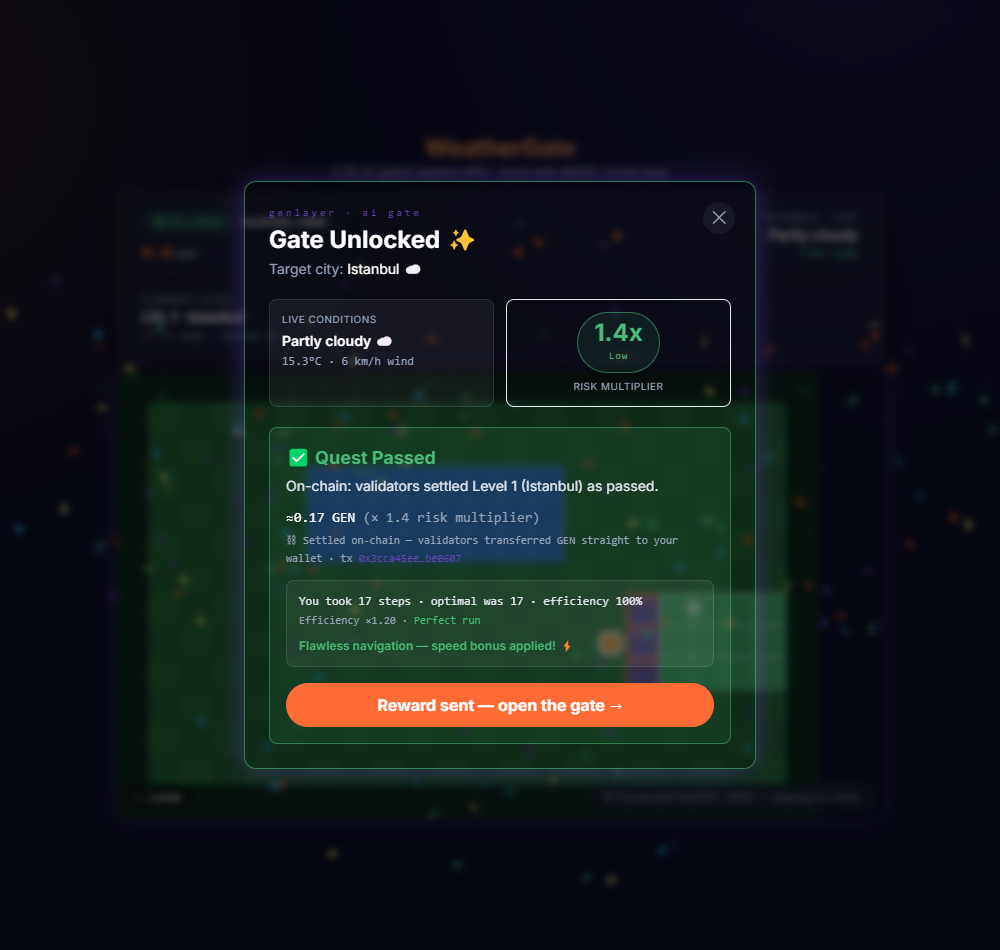
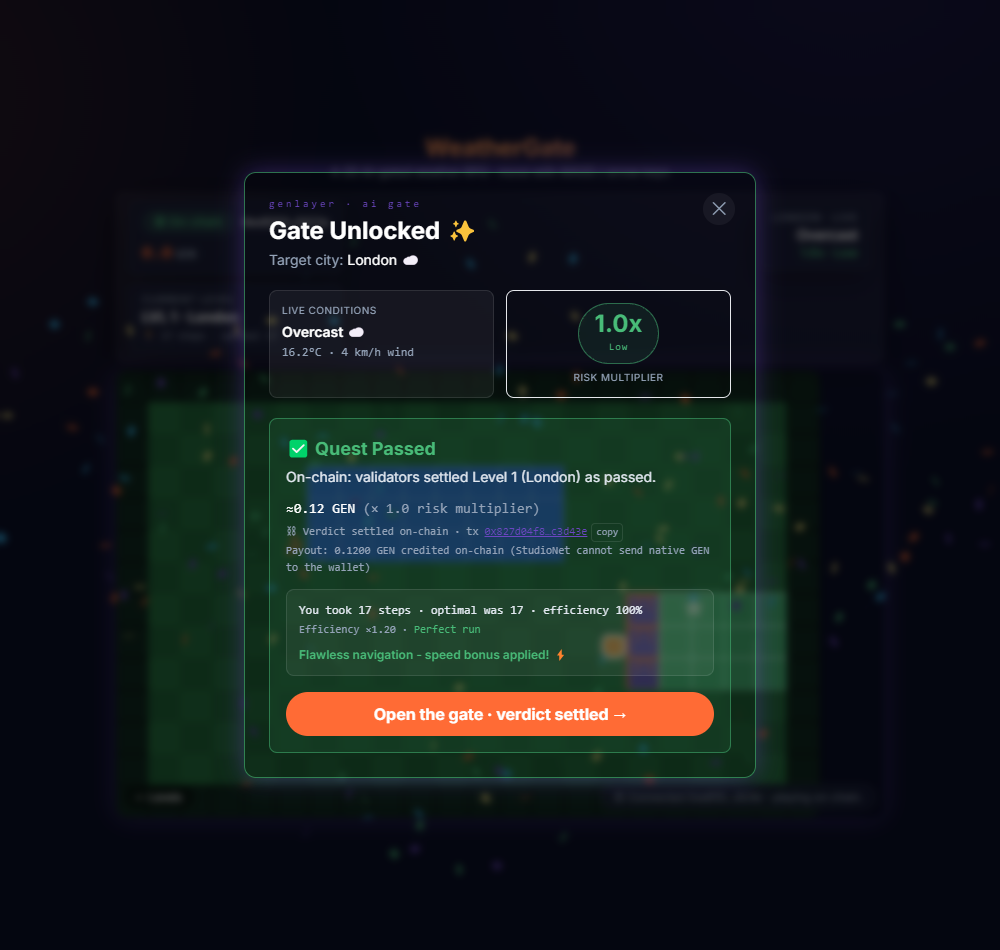
P5 live-UI on-chain proof + P4 preview-match evidence
Playwright run against the live site with a throwaway in-test key: settlement tx 0x827d04f8 FINALIZED / MAJORITY_AGREE / 1 consensus round, get_credit +0.12 GEN for the signer, full-66 explorer link, separate payout line, no reward-sent wording, gate unlocked, address chip matches, 0 console errors.

Fixed pwtest selectors: address chip is in the in-game HUD, Gate Unlocked text is read from the verdict modal before it closes.

Added CI watch, live-bundle check, and RPC get_credit cross-check scripts. Screenshots and JSON reports under docs/.

Changed region(s): [[0.248, 0.3053, 0.744, 0.8242], [0.248, 0.1832, 0.744, 0.3968], [0.775, 0.2442, 0.806, 0.2747]]

diff --git a/scripts/wq_p5_verify.py b/scripts/wq_p5_verify.py
@@ -1,0 +1,92 @@
+"""P5 independent verification of the live-UI on-chain settlement.
+
+Reads docs/ui-onchain-report.json (written by tools/pwtest/onchain_write.mjs),
+takes the settlement tx hash the UI submitted, and independently (via the
+StudioNet RPC, not the browser) confirms:
+  * lifecycle reached FINALIZED (or at least ACCEPTED) within the 5-min cap,
+  * result_name == MAJORITY_AGREE (NOT Validators Timeout / NO_MAJORITY),
+  * num_of_rounds == 1 (one consensus round, no rotation),
+  * the validator vote set,
+  * the throwaway signer's on-chain credit equals the expected L1 payout.
+
+Polls every 20-25s, one printed line per poll, stops after 3 no-change polls.
+Loads nothing secret; reads only public tx data + this project's own key is not
+needed for these reads. NEVER prints any private key.
+"""
+import json
+import os
+import sys
+import time
+
+from dotenv import load_dotenv
+
+ROOT = os.path.abspath(os.path.join(os.path.dirname(__file__), ".."))
+load_dotenv(os.path.join(ROOT, ".env"))
+from genlayer_py import create_client, studionet  # noqa: E402
+from eth_account import Account  # noqa: E402
+
+ADDR = "0x2d764187A908d1677510c5E7FE69e8e7C1810299"
+BAD = {"NO_MAJORITY", "MAJORITY_DISAGREE", "TIMEOUT", "VALIDATORS_TIMEOUT",
+       "LEADER_TIMEOUT", "UNDETERMINED"}
+TERMINAL = {"FINALIZED", "UNDETERMINED", "VALIDATORS_TIMEOUT", "LEADER_TIMEOUT", "CANCELED"}
+
+report = json.load(open(os.path.join(ROOT, "docs", "ui-onchain-report.json"), encoding="utf-8"))
+sub = report.get("submitted") or []
+signer = report.get("signer_address")
+if not sub:
+    print("no submitted tx in report; aborting"); sys.exit(1)
+tx_id = sub[0]["hash"]
+print("settlement tx:", tx_id)
+print("signer:", signer)
+
+client = create_client(chain=studionet, account=Account.create())
+
+prev = None
+same = 0
+start = time.time()
+raw = None
+while time.time() - start < 300:
+    try:
+        raw = client.get_transaction(tx_id)
+    except Exception as e:
+        print("  poll err", type(e).__name__, str(e)[:60]); time.sleep(20); continue
+    sn = raw.get("status_name")
+    rn = raw.get("result_name")
+    print("[%3ds] status=%s result=%s rounds=%s" % (
+        int(time.time() - start), sn, rn, raw.get("num_of_rounds")))
+    if sn in TERMINAL:
+        break
+    if sn == prev:
+        same += 1
+        if same >= 3:
+            print("no change x3, stopping"); break
+    else:
+        same = 0
+    prev = sn
+    time.sleep(22)
+
+cd = (raw or {}).get("consensus_data") or {}
+votes = cd.get("votes") or {}
+vote_vals = list(votes.values())
+result = {
+    "tx_hash": tx_id,
+    "status_name": (raw or {}).get("status_name"),
+    "result_name": (raw or {}).get("result_name"),
+    "num_of_rounds": (raw or {}).get("num_of_rounds"),
+    "votes": vote_vals,
+    "consensus_clean": (raw or {}).get("result_name") not in BAD and bool(vote_vals),
+}
+print(json.dumps(result, indent=2))
+
+# read the signer's on-chain credit on the contract
+credit = None
+try:
+    credit = client.read_contract(ADDR, "get_credit", [signer])
+    print("get_credit(signer):", credit)
+except Exception as e:
+    print("get_credit read failed:", type(e).__name__, str(e)[:80])
+
+out = {"settlement": result, "credit": credit}
+with open(os.path.join(ROOT, "docs", "p5_ui_onchain_verify.json"), "w", encoding="utf-8") as f:
+    json.dump(out, f, indent=2, default=str)
+print("wrote docs/p5_ui_onchain_verify.json")

diff --git a/scripts/wq_live_bundle.py b/scripts/wq_live_bundle.py
@@ -1,0 +1,67 @@
+"""Verify the LIVE GitHub Pages bundle bakes the final contract address.
+
+base: "./" means index.html references ./assets/*.js, and the contract address
+lives in a dynamically-imported (code-split) chunk, not the entry. So this
+crawls every asset js referenced by index.html OR by any fetched js (bounded),
+greps each for the NEW and OLD addresses, and reports per-asset hits. Read-only
+GETs of public static files. No secrets.
+"""
+import re
+import urllib.request
+
+SITE = "https://hoveiser.github.io/weatherquest/"
+NEW = "0x2d764187A908d1677510c5E7FE69e8e7C1810299"
+OLD = "0x8fc4bc489C30666D6cF846DB63aAEaDfD8475A72"
+UA = {"User-Agent": "wq-live-bundle-check"}
+
+
+def get(url):
+    try:
+        with urllib.request.urlopen(urllib.request.Request(url, headers=UA), timeout=30) as r:
+            return r.status, r.read().decode("utf-8", "ignore")
+    except Exception as e:
+        return None, "ERR " + type(e).__name__ + " " + str(e)[:80]
+
+
+def resolve(asset):
+    a = asset.lstrip("./").lstrip("/")
+    return SITE + a
+
+
+status, html = get(SITE + "index.html")
+print("index.html status:", status)
+js = set(re.findall(r"assets/[A-Za-z0-9_-]+\.js", html))
+print("assets referenced by index:", sorted(js))
+
+fetched = set()
+new_hits = []
+old_hits = []
+queue = list(js)
+guard = 0
+while queue and guard < 30:
+    guard += 1
+    name = queue.pop(0)
+    if name in fetched:
+        continue
+    fetched.add(name)
+    url = resolve(name)
+    st, body = get(url)
+    if st != 200:
+        print("  FETCH FAIL", url, body)
+        continue
+    has_new = NEW in body or NEW.lower() in body.lower()
+    has_old = OLD in body or OLD.lower() in body.lower()
+    print("  %-40s status=%s bytes=%6d NEW=%s OLD=%s" % (name, st, len(body), has_new, has_old))
+    if has_new:
+        new_hits.append(name)
+    if has_old:
+        old_hits.append(name)
+    # follow further chunk references inside this asset
+    for deeper in re.findall(r"assets/[A-Za-z0-9_-]+\.js", body):
+        if deeper not in fetched:
+            queue.append(deeper)
+
+print("assets crawled:", len(fetched))
+print("contain NEW:", new_hits or "NONE")
+print("contain OLD:", old_hits or "NONE")
+print("VERDICT:", "PASS" if new_hits and not old_hits else "CHECK")

diff --git a/scripts/wq_ci_watch.py b/scripts/wq_ci_watch.py
@@ -1,0 +1,69 @@
+"""Poll GitHub Actions run status for the pushed commit until each workflow
+finishes. Reads GITHUB_TOKEN from this project's own .env and never prints it.
+Polls every 25s and prints one line per poll; stops if 3 consecutive polls show
+no change (per the network rules)."""
+import json
+import os
+import sys
+import time
+import urllib.request
+
+SHA = sys.argv[1] if len(sys.argv) > 1 else "81b76c7"
+
+
+def token():
+    for line in open(".env", encoding="utf-8", errors="ignore"):
+        line = line.strip()
+        if line.startswith("GITHUB_TOKEN="):
+            return line.split("=", 1)[1].strip().strip('"').strip("'")
+    return None
+
+
+tok = token()
+if not tok:
+    print("NO GITHUB_TOKEN in .env"); sys.exit(2)
+
+
+def runs():
+    url = ("https://api.github.com/repos/hoveiser/weatherquest/actions/runs"
+           "?head_sha=" + SHA)
+    req = urllib.request.Request(url, headers={
+        "Authorization": "Bearer " + tok,
+        "Accept": "application/vnd.github+json",
+        "User-Agent": "wq-ci-watch",
+    })
+    with urllib.request.urlopen(req, timeout=30) as r:
+        d = json.load(r)
+    out = {}
+    for w in d.get("workflow_runs", []):
+        out[w["name"]] = (w["status"], w.get("conclusion"))
+    return out
+
+
+prev = None
+same = 0
+start = time.time()
+while True:
+    try:
+        st = runs()
+    except Exception as e:
+        print("poll error:", type(e).__name__, str(e)[:80])
+        time.sleep(25)
+        continue
+    line = " | ".join("%s: %s/%s" % (n, s, c) for n, (s, c) in sorted(st.items()))
+    print("[%4ds] %s" % (int(time.time() - start), line or "no runs yet"))
+    if st and all(s == "completed" for s, _ in st.values()):
+        print("ALL COMPLETED")
+        break
+    if st == prev:
+        same += 1
+        if same >= 3:
+            print("NO CHANGE x3, stopping for user check")
+            break
+    else:
+        same = 0
+    prev = st
+    if time.time() - start > 600:
+        print("600s watch window elapsed, still running")
+        break
+    time.sleep(25)

diff --git a/docs/progress.md b/docs/progress.md
@@ -270,3 +270,45 @@ uses the contract payout formula.
 ## Remaining
 - Commit, push to main, wait for CI + Pages green, re-check the live bundle address, then the P5
   live-UI Playwright pass against the deployed final-contract bundle.
+
+## P6 push + deploy (DONE)
+- Committed `81b76c7` and pushed to `main` (user declined the optional pre-push deep review).
+- GitHub Actions both green for `81b76c7`: "Deploy frontend to GitHub Pages" success, and
+  "CI - Regression Tests" (genvm-lint + 131 direct tests + frontend `npm test` + build) success.
+- Live bundle re-checked (`scripts/wq_live_bundle.py`): the served entry chunk
+  `assets/index-DvlQZpse.js` (HTTP 200) contains `0x2d764187A908d1677510c5E7FE69e8e7C1810299` and
+  NOT the old `0x8fc4bc48...`.
+
+---
+
+# Progress log: live UI + preview match (P5, and the P4 live check)
+
+Ran `tools/pwtest/onchain_write.mjs` (bundled Node + chromium) against the LIVE
+https://hoveiser.github.io/weatherquest/ with an injected EIP-1193 provider backed by a fresh
+throwaway key (generated in-test, never printed, never from `.env`). Screenshots under `docs/`:
+`ui-13-gate-preview.png`, `ui-10-onchain-verdict.png`, `ui-12-settlement-proof.png`,
+`ui-11-onchain-unlocked.png`; report `docs/ui-onchain-report.json`; RPC cross-check
+`docs/p5_ui_onchain_verify.json`.
+
+- Selector fixes made this pass (test-only, no product change): the connected address chip lives in
+  the in-game `HUD` (not the menu, which only shows a "Disconnect" button), so the chip assertion
+  moved to after entering the level; `Gate Unlocked` is read from the verdict modal (before it
+  closes) instead of after clicking "Open the gate".
[1 lines of base64/hex data omitted]
+  independently confirmed via StudioNet RPC `FINALIZED` / `MAJORITY_AGREE` / 1 consensus round /
+  votes [agree, agree, agree, idle, idle]. `get_credit(signer)` = 120000000000000000 atto = 0.12 GEN
+  for a throwaway account that started at 0, so the recipient on-chain credit change = +0.12 GEN.
+  (Two earlier UI runs in this session settled `0x94cd8997...` and `0xa2ecb17b...`, both also
+  FINALIZED / MAJORITY_AGREE / 1 round / +0.12 credit.)
+- P5 UI assertions all green: 0 console errors; connected + menu "Disconnect" shown; address chip
+  present and matching the signer short address; gate opened; Quest Passed; full-66 explorer href;
+  `target=_blank` + `rel=noopener noreferrer`; clicking opened the explorer popup; separate
+  "Payout: 0.1200 GEN credited on-chain (StudioNet cannot send native GEN to the wallet)" line with
+  no "reward sent" wording; `Gate Unlocked` shown.
+- P4 live check: the same run's modal preview badge showed `1.0x · Low` and the settlement showed
+  `x 1.0 risk multiplier` and `~0.12 GEN`, so the client `previewRisk` matched the on-chain payout
+  for the same run. Note the live level-1 city is IP-resolved (the test runner resolved London, not
+  Istanbul); the Istanbul equivalence is covered by the SDK runs `p3_free_L1_Istanbul_*` (0.12 GEN,
+  multiplier 1.00) and the 10/10 boundary unit tests.
+- Honest limitation unchanged: StudioNet cannot move native GEN to the EOA, so the recipient
+  "balance change" measured here is the on-chain per-address credit, not an EOA native delta.
